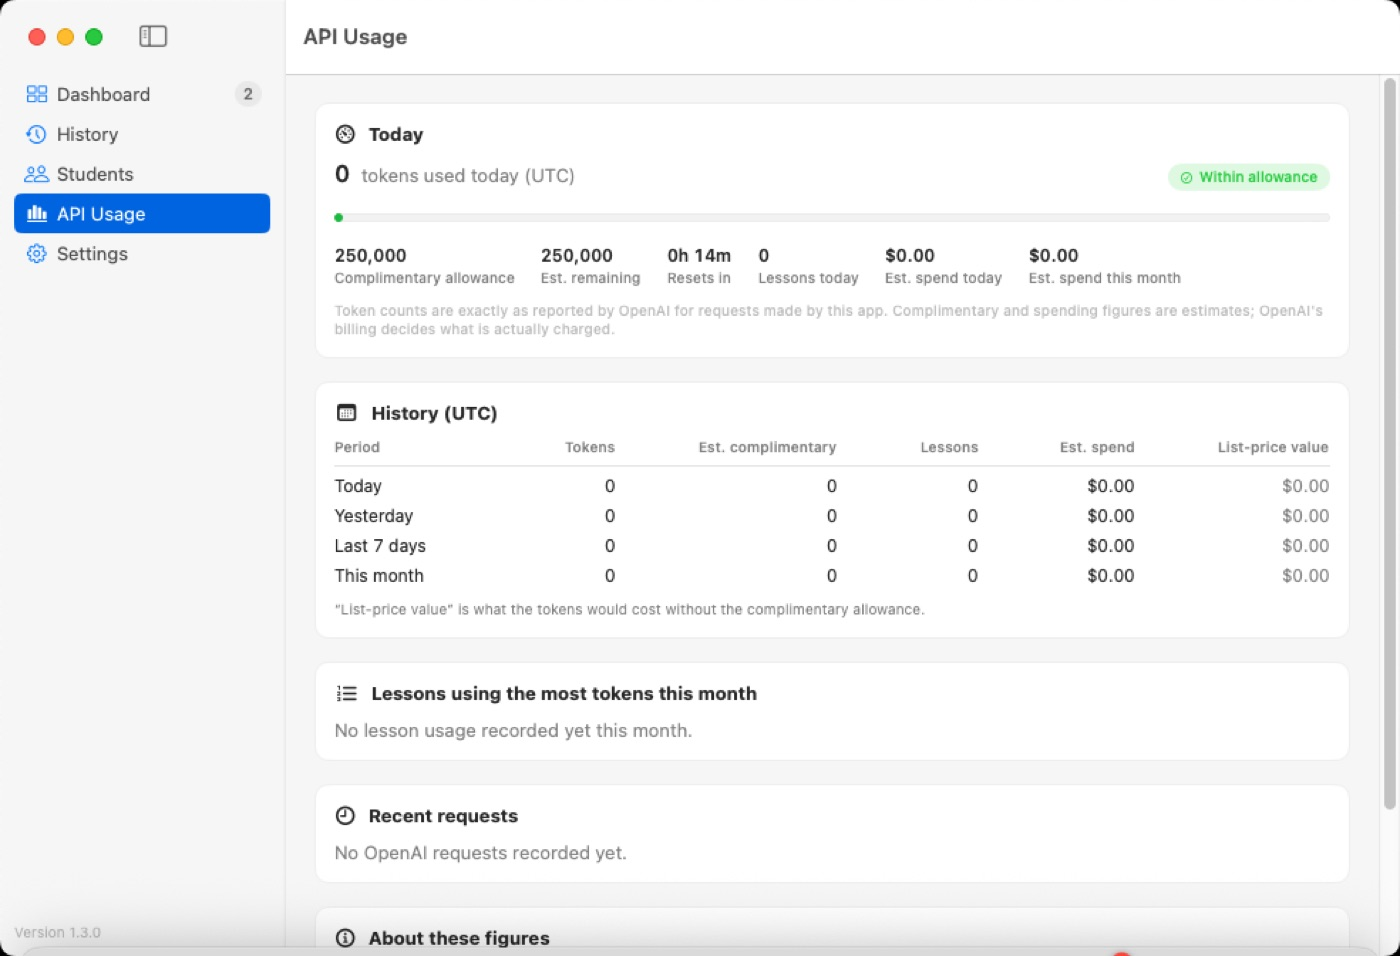
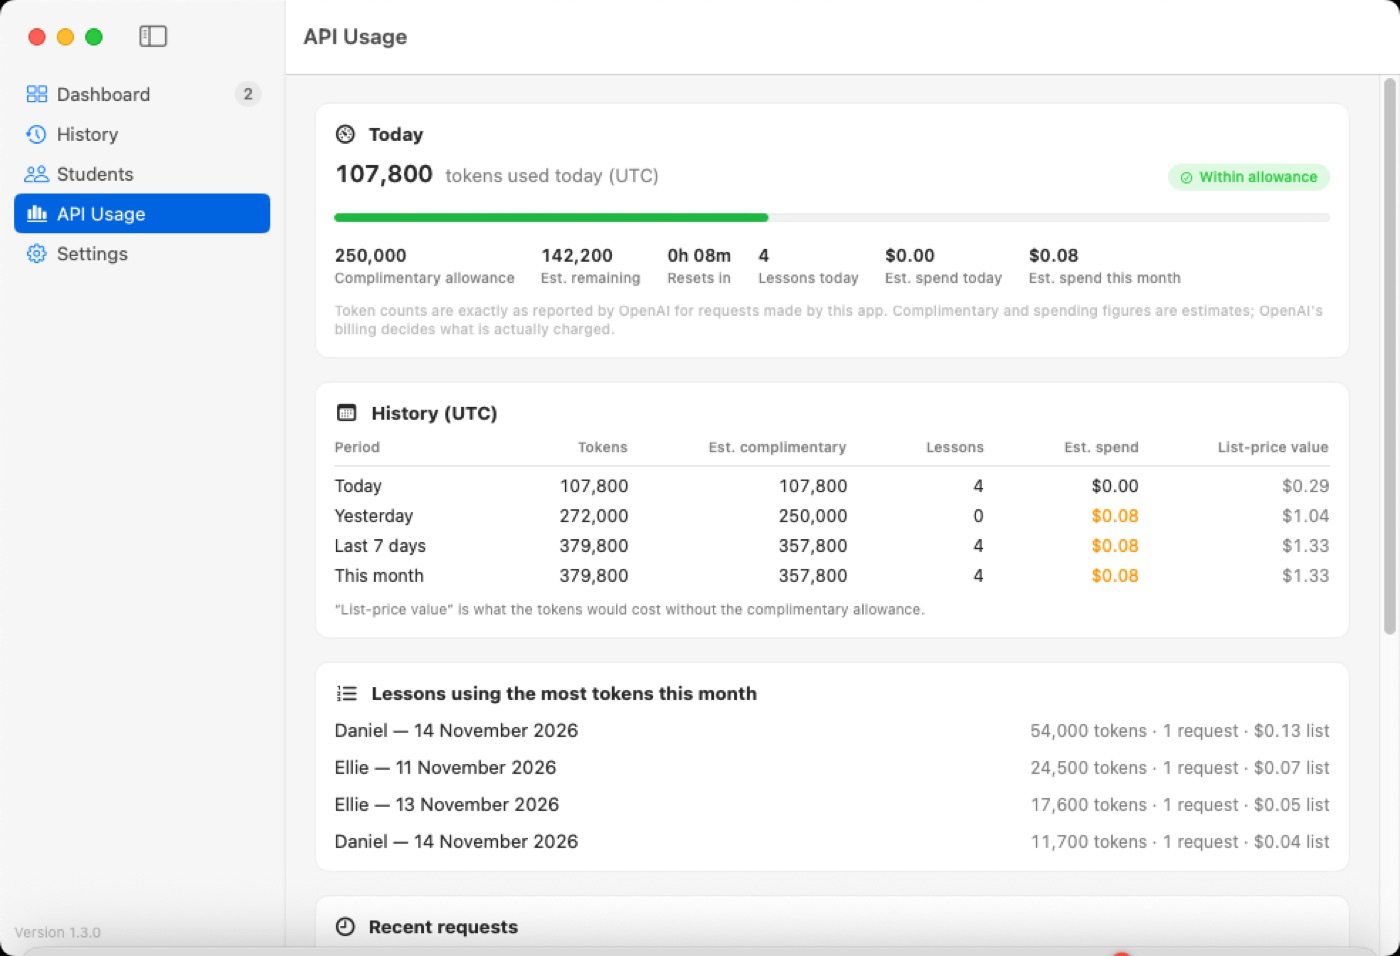
README: add API Usage screenshot, refresh gallery images
Claude-Session: https://claude.ai/code/session_01DDJiVfZSELnVqu4NwvJG18

diff --git a/README.md b/README.md
@@ -108,6 +108,8 @@ Audio and video never leave the Mac.
 - Automatic retries with back-off; safe, idempotent uploads
 - Duplicate-recording warnings using SHA-256
 - Full transcript always uploaded, with UTF-8 size limits enforced
+- **OpenAI usage counter** with optional free-allowance protection
+- Lesson length sent to Let's Meet (admin-only)
 
 </td>
 </tr>
@@ -127,6 +129,9 @@ Audio and video never leave the Mac.
 <tr>
 <td><img src="docs/images/settings-light.jpg" alt="OpenAI settings"><br><sub><b>OpenAI</b> — live model list, Test Model and reasoning effort</sub></td>
 <td><img src="docs/images/dashboard-dark.jpg" alt="Dark mode"><br><sub><b>Dark mode</b> — follows your Mac's appearance</sub></td>
+</tr>
+<tr>
+<td colspan="2" align="center"><img src="docs/images/usage-light.jpg" width="70%" alt="API usage"><br><sub><b>API Usage</b> — today's tokens against the complimentary allowance, reset countdown, estimated spend and the lessons using the most</sub></td>
 </tr>
 </table>
 
